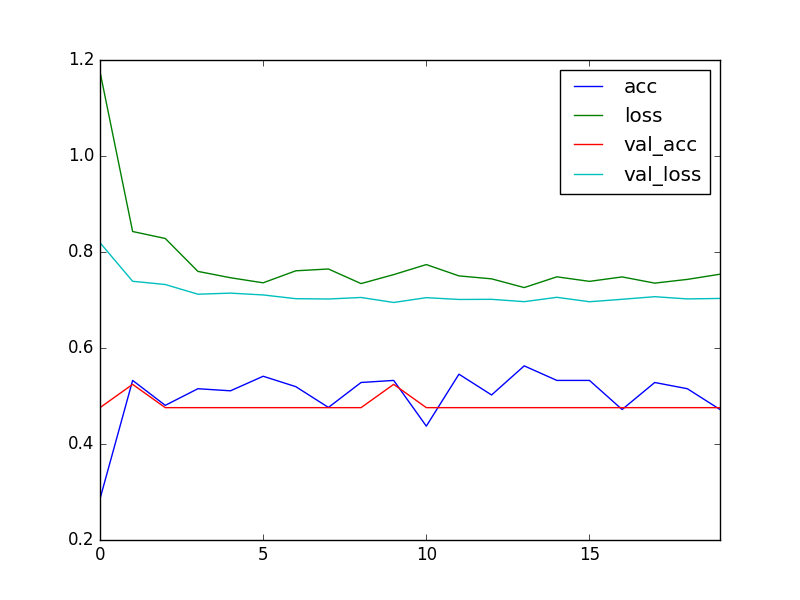
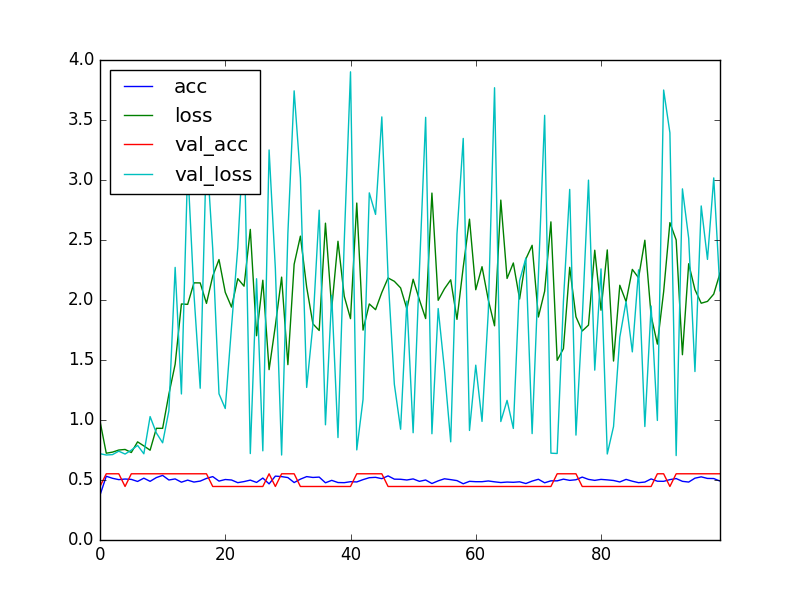
weekly

diff --git a/main.py b/main.py
@@ -13,7 +13,7 @@ if __name__ == '__main__':
     val_Xs, val_Y = getTrainData(ndf, df[Y], VAL_FROM,VAL_TO, ROLLWINDOW)
     model = getModel()
 
-    res = model.fit(train_Xs, train_Y, batch_size=256, nb_epoch=20, validation_data=(val_Xs, val_Y))
+    res = model.fit(train_Xs, train_Y, batch_size=256, nb_epoch=100, validation_data=(val_Xs, val_Y))
 
     '''
     results = []

diff --git a/conf.py b/conf.py
@@ -1,5 +1,5 @@
 
-DATAFREQ = 30#days
+DATAFREQ = 7#days
 TRAIN_FROM = 0 * 365
 TRAIN_TO = 20 * 365
 VAL_FROM = 20 * 365
